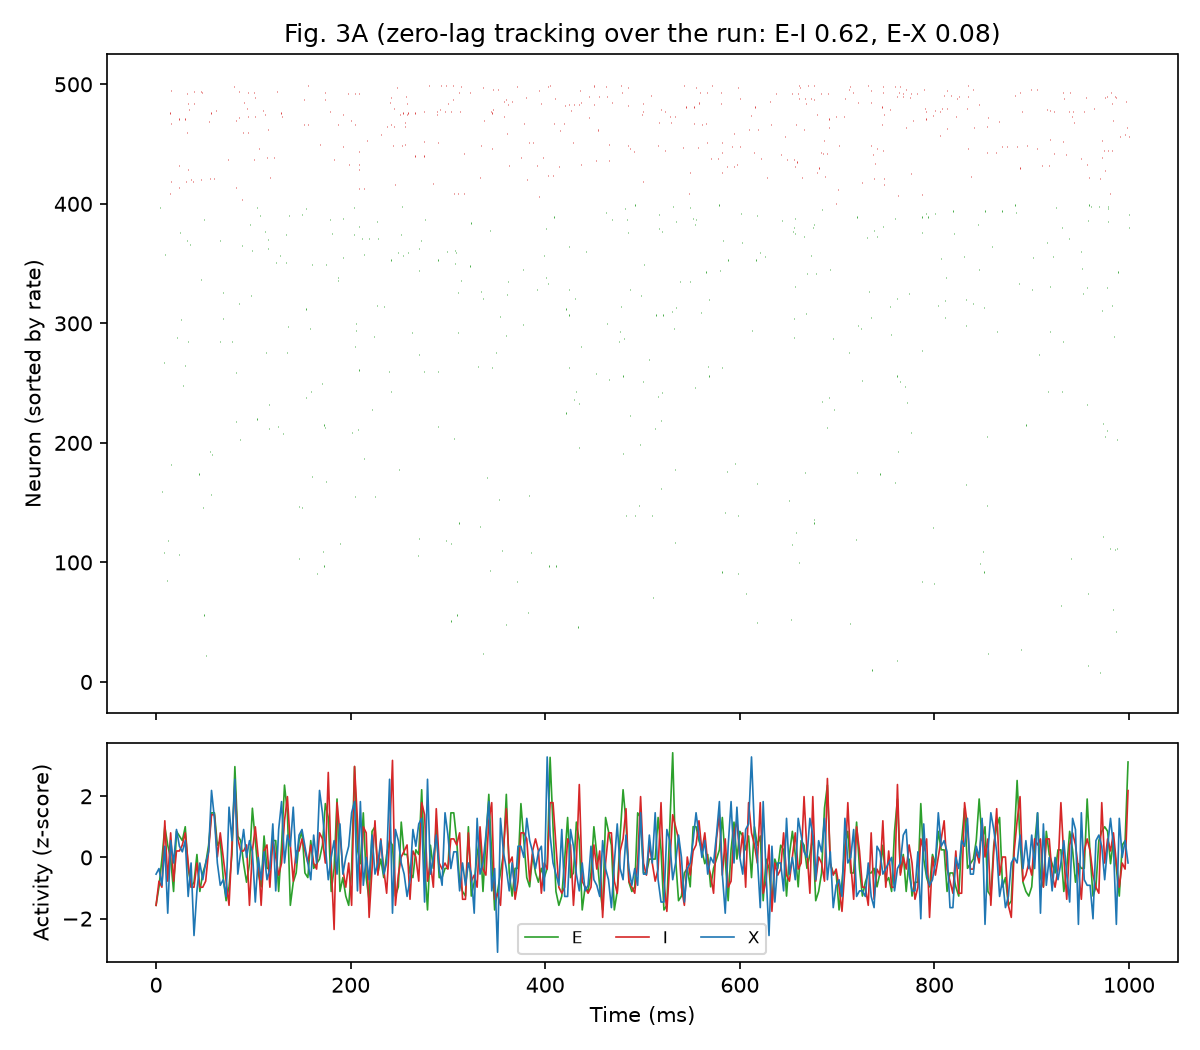
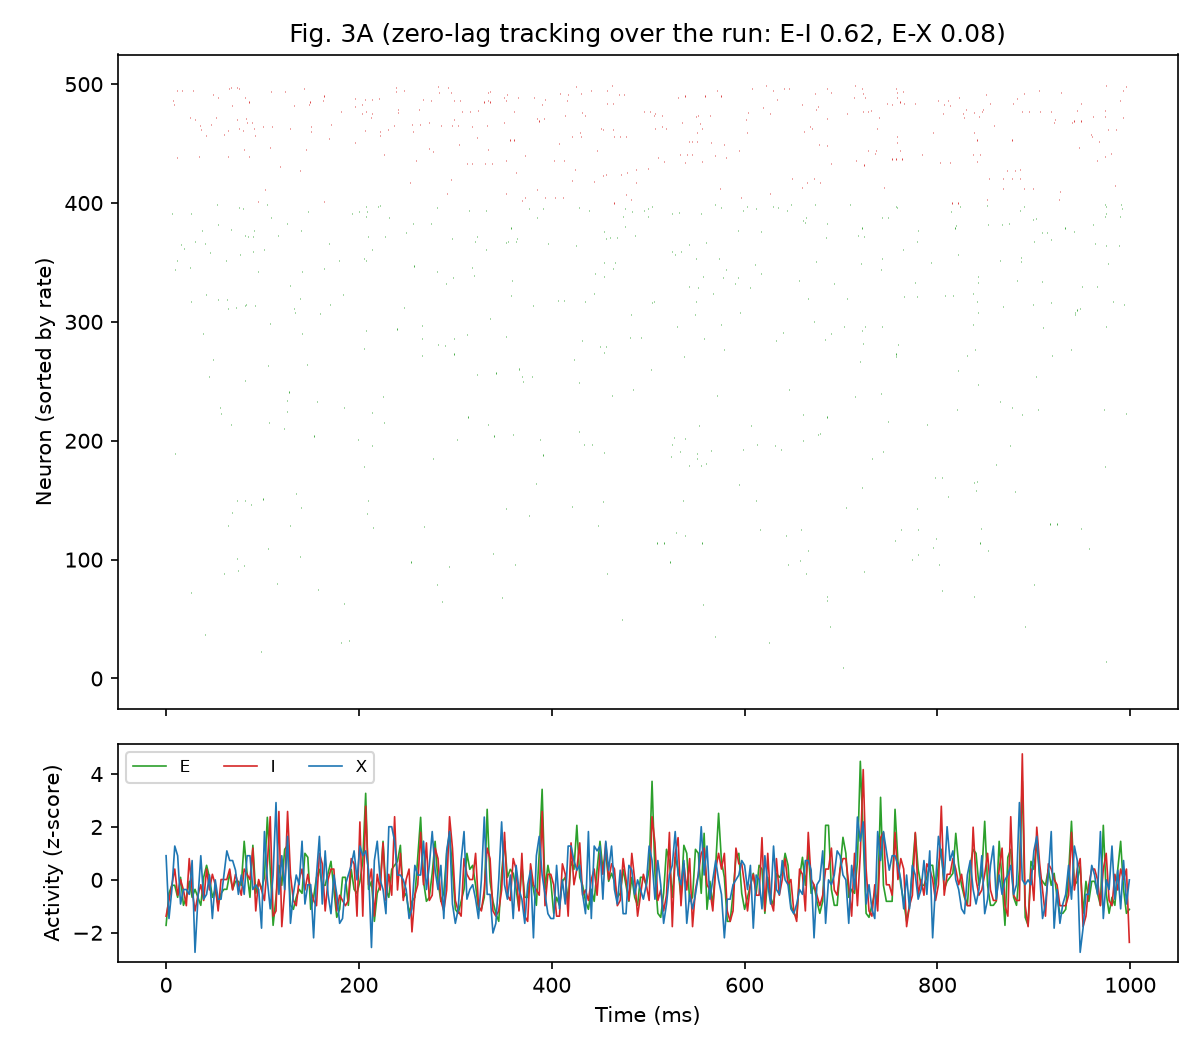
Report Fig. 3A and 3B from the paper's 5000 s run

diff --git a/reports/renart2010_reproduction.md b/reports/renart2010_reproduction.md
@@ -103,7 +103,8 @@ from SOM S-p.20–21):
 
 All ten networks are NaN-free; r̄ is positive but ~6× under the paper's bound.
 
-**3A / 3B panels** come from a single network simulated for 2000 s (57 min wall, 33 GB):
+**3A / 3B panels** come from a single network simulated for **5000 s, the SOM's length**
+(4 h 41 min wall on an efficiency core, 82 GB peak):
 
 ![Fig. 3A](figures/fig3a.png)
 
@@ -113,12 +114,17 @@ activities (3 ms bins). Over the whole run **I tracks E with a zero-lag correlat
 The E–X correlation is only 0.08 here, because X is a set of independent Poisson trains whose
 pooled activity is white noise, with no slow fluctuation to track at 3 ms resolution.
 
-![Fig. 3B](figures/fig3b_2000s.png)
+![Fig. 3B](figures/fig3b.png)
 
-**3B.** All 499 500 E–E pairs of a 1000-cell sample, T = 50 ms. Measured: **r̄ = 1.4 × 10⁻⁴,
-σ_r = 0.0054**. Jittered surrogate (±500 ms): r̄ = 3 × 10⁻⁶, σ_r = 0.0041. The distribution
+**3B.** All 499 500 E–E pairs of a 1000-cell sample, T = 50 ms. Measured: **r̄ = 1.5 × 10⁻⁴,
+σ_r = 0.0044**. Jittered surrogate (±500 ms): r̄ = −2 × 10⁻⁶, σ_r = 0.0026. The distribution
 is centred on zero and **wider than its null**: pairs carry real correlations of both signs
 while the population average vanishes. That is the asynchronous state, and the paper's panel.
+
+Recording length is a convergence check. From 2000 s to 5000 s the null narrows as 1/√T
+(0.0041 → 0.0026, ratio 1.58 against √2.5 = 1.58), while the measured width settles at
+0.0044. The excess, √(0.0044² − 0.0026²) ≈ 0.0035, is real pair-to-pair structure, not
+finite-sample noise. r̄ is the same at both lengths (1.4 and 1.5 × 10⁻⁴).
 
 ![Fig. 3C](figures/fig3c.png)
 
@@ -155,16 +161,13 @@ and almost nothing is left. In vitro this needs only paired whole-cell recording
    conductance term now sits inside the `rk2` step with V, which removes a former Euler caveat.
 2. Because of (1), **every Fig. 3 protocol ran at the paper's own length**: 10 × 200 s networks
    and the full 90-task Fig. 3C–D (10 networks × 9 conditions × 50 s). Fig. 3B grew from
-   1000 s to 2000 s.
+   1000 s to the SOM's 5000 s.
 
 ## 4. Deviations to state on the slides
 
 - **Fig. 2C is a reduced sweep**: 40 000 τ per realisation and 5–20 realisations per N, against
   the paper's 200 000 τ and 50. Every N up to 8192 is kept, and each point's noise is ~√5
   wider. The paper's protocol costs ~16–24 h per N = 8192 realisation here.
-- **Fig. 3B shown at 2000 s.** The SOM's 5000 s run (40 GB rate matrix) was submitted
-  after the 2000 s one finished in under an hour. At 2000 s the null is 0.0041 wide,
-  against 0.0027 at 5000 s.
 - **I rate 3.98 Hz vs 3.6 Hz** (+10 %), consistent over all 10 networks. E rate and r̄ are on
   target.
 - **Inferred, not stated, in the SOM** (all labelled in `config.yaml`):
@@ -194,7 +197,7 @@ and almost nothing is left. In vitro this needs only paired whole-cell recording
 ```bash
 pip install -r requirements.txt && pytest                  # all tests
 sbatch slurm/block3_networks.slurm                         # 3A-B statistics, 10 tasks, ~12 min each
-sbatch slurm/block3_panels.slurm                           # 3A/3B panels, 2000 s
+sbatch slurm/block3_panels.slurm                           # 3A/3B panels, 5000 s, 100G
 sbatch slurm/block3_vm_ccg.slurm                           # 3C-D, 90 tasks, ~8 min each
 PYTHONPATH=src python -m block3.run aggregate && PYTHONPATH=src python -m block3.run plot
 # Block 2: see src/block2/README.md (sweep + current arrays, then aggregate, plot)

diff --git a/reports/talk_outline.md b/reports/talk_outline.md
@@ -27,10 +27,12 @@ How can dense networks be asynchronous? Shared input should force correlations o
 - r̄ falls as 1/N (2.0e-2 → 6.9e-4 over N = 100 → 3160), c as ~1/√N; components stay O(1).
 - Say: "nothing is fine-tuned; the cancellation is dynamical."
 
-**6. Fig. 3A/3B — a realistic conductance-based network (2 min).** `fig3a.png`, `fig3b_2000s.png`
+**6. Fig. 3A/3B — a realistic conductance-based network (2 min).** `fig3a.png`, `fig3b.png`
 - 4000 E + 1000 I + 4000 Poisson inputs, p = 0.2, SOM parameters.
 - 10 networks × 200 s: E 1.04 Hz, I 3.98 Hz (paper 1.0 / 3.6), r̄ = 1.6 × 10⁻⁴ (paper < 10⁻³).
-- 3B: 499 500 pairs, centred on 0 and wider than the jittered null (σ 0.0054 vs 0.0041).
+- 3B at the paper's 5000 s: 499 500 pairs, r̄ = 1.5 × 10⁻⁴, centred on 0 and wider than the
+  jittered null (σ 0.0044 vs 0.0026). The null narrows as 1/√T from 2000 s, the measured
+  width does not: the spread is real.
 
 **7. Fig. 3C/3D — the testable prediction (2 min).** `fig3c.png`, `fig3d.png`
 - Voltage CCGs with spiking off: EPSP–EPSP +0.25, IPSP–IPSP +0.16, **EPSP–IPSP −0.19**,

diff --git a/README.md b/README.md
@@ -52,7 +52,7 @@ from the 2026-10-26 cluster pass are in [`reports/`](reports/):
 |---|---|---|
 | 1 | complete | Fig. 1 B/C/E/F, at the paper's full `length_s = 10000` |
 | 2 | complete | Panels 2B/2D/2E/2G; Fig. 2C from a reduced sweep (40000 τ, ≤20 realisations per N) |
-| 3 | complete | Fig. 3A–B statistics (10 × 200 s, the paper's protocol), Fig. 3C–D (all 90 tasks), Fig. 3A/3B panels at 2000 s |
+| 3 | complete | Fig. 3A–B statistics (10 × 200 s, the paper's protocol), Fig. 3C–D (all 90 tasks), Fig. 3A/3B panels at the paper's 5000 s |
 
 - [`reports/renart2010_reproduction.md`](reports/renart2010_reproduction.md) — the
   reproduction: every figure, the numbers against the paper's, and the deviations.
